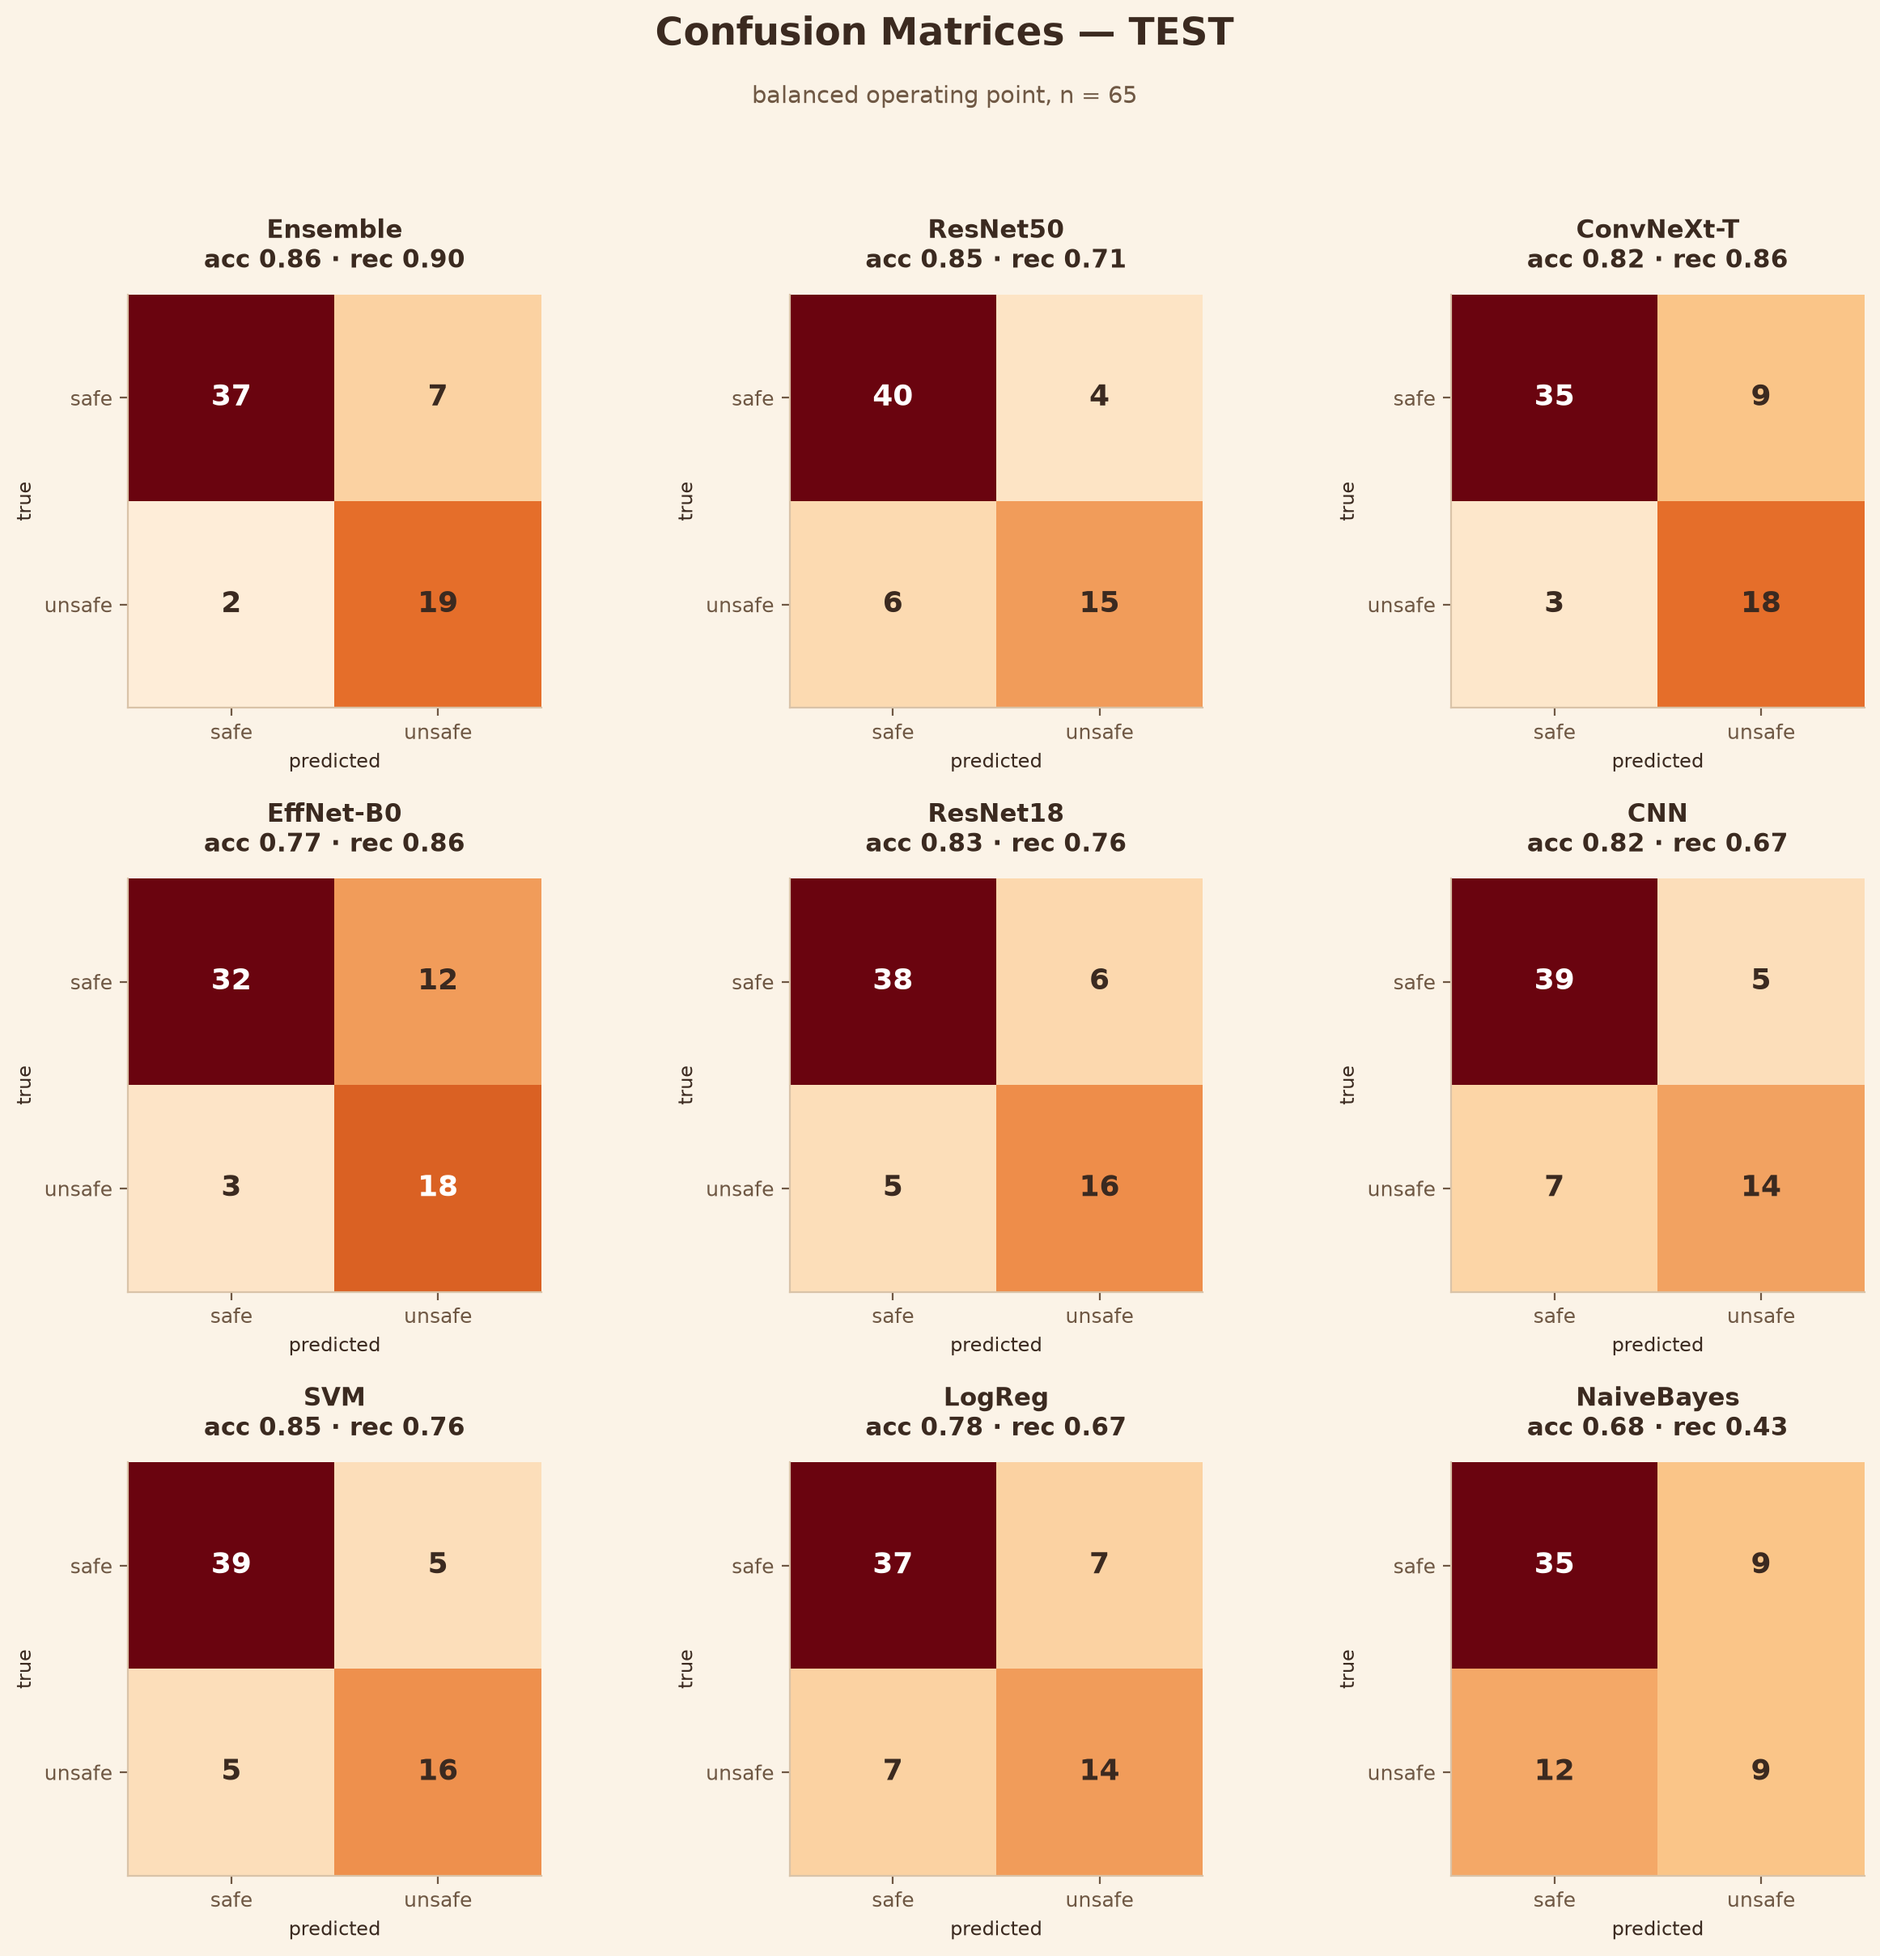
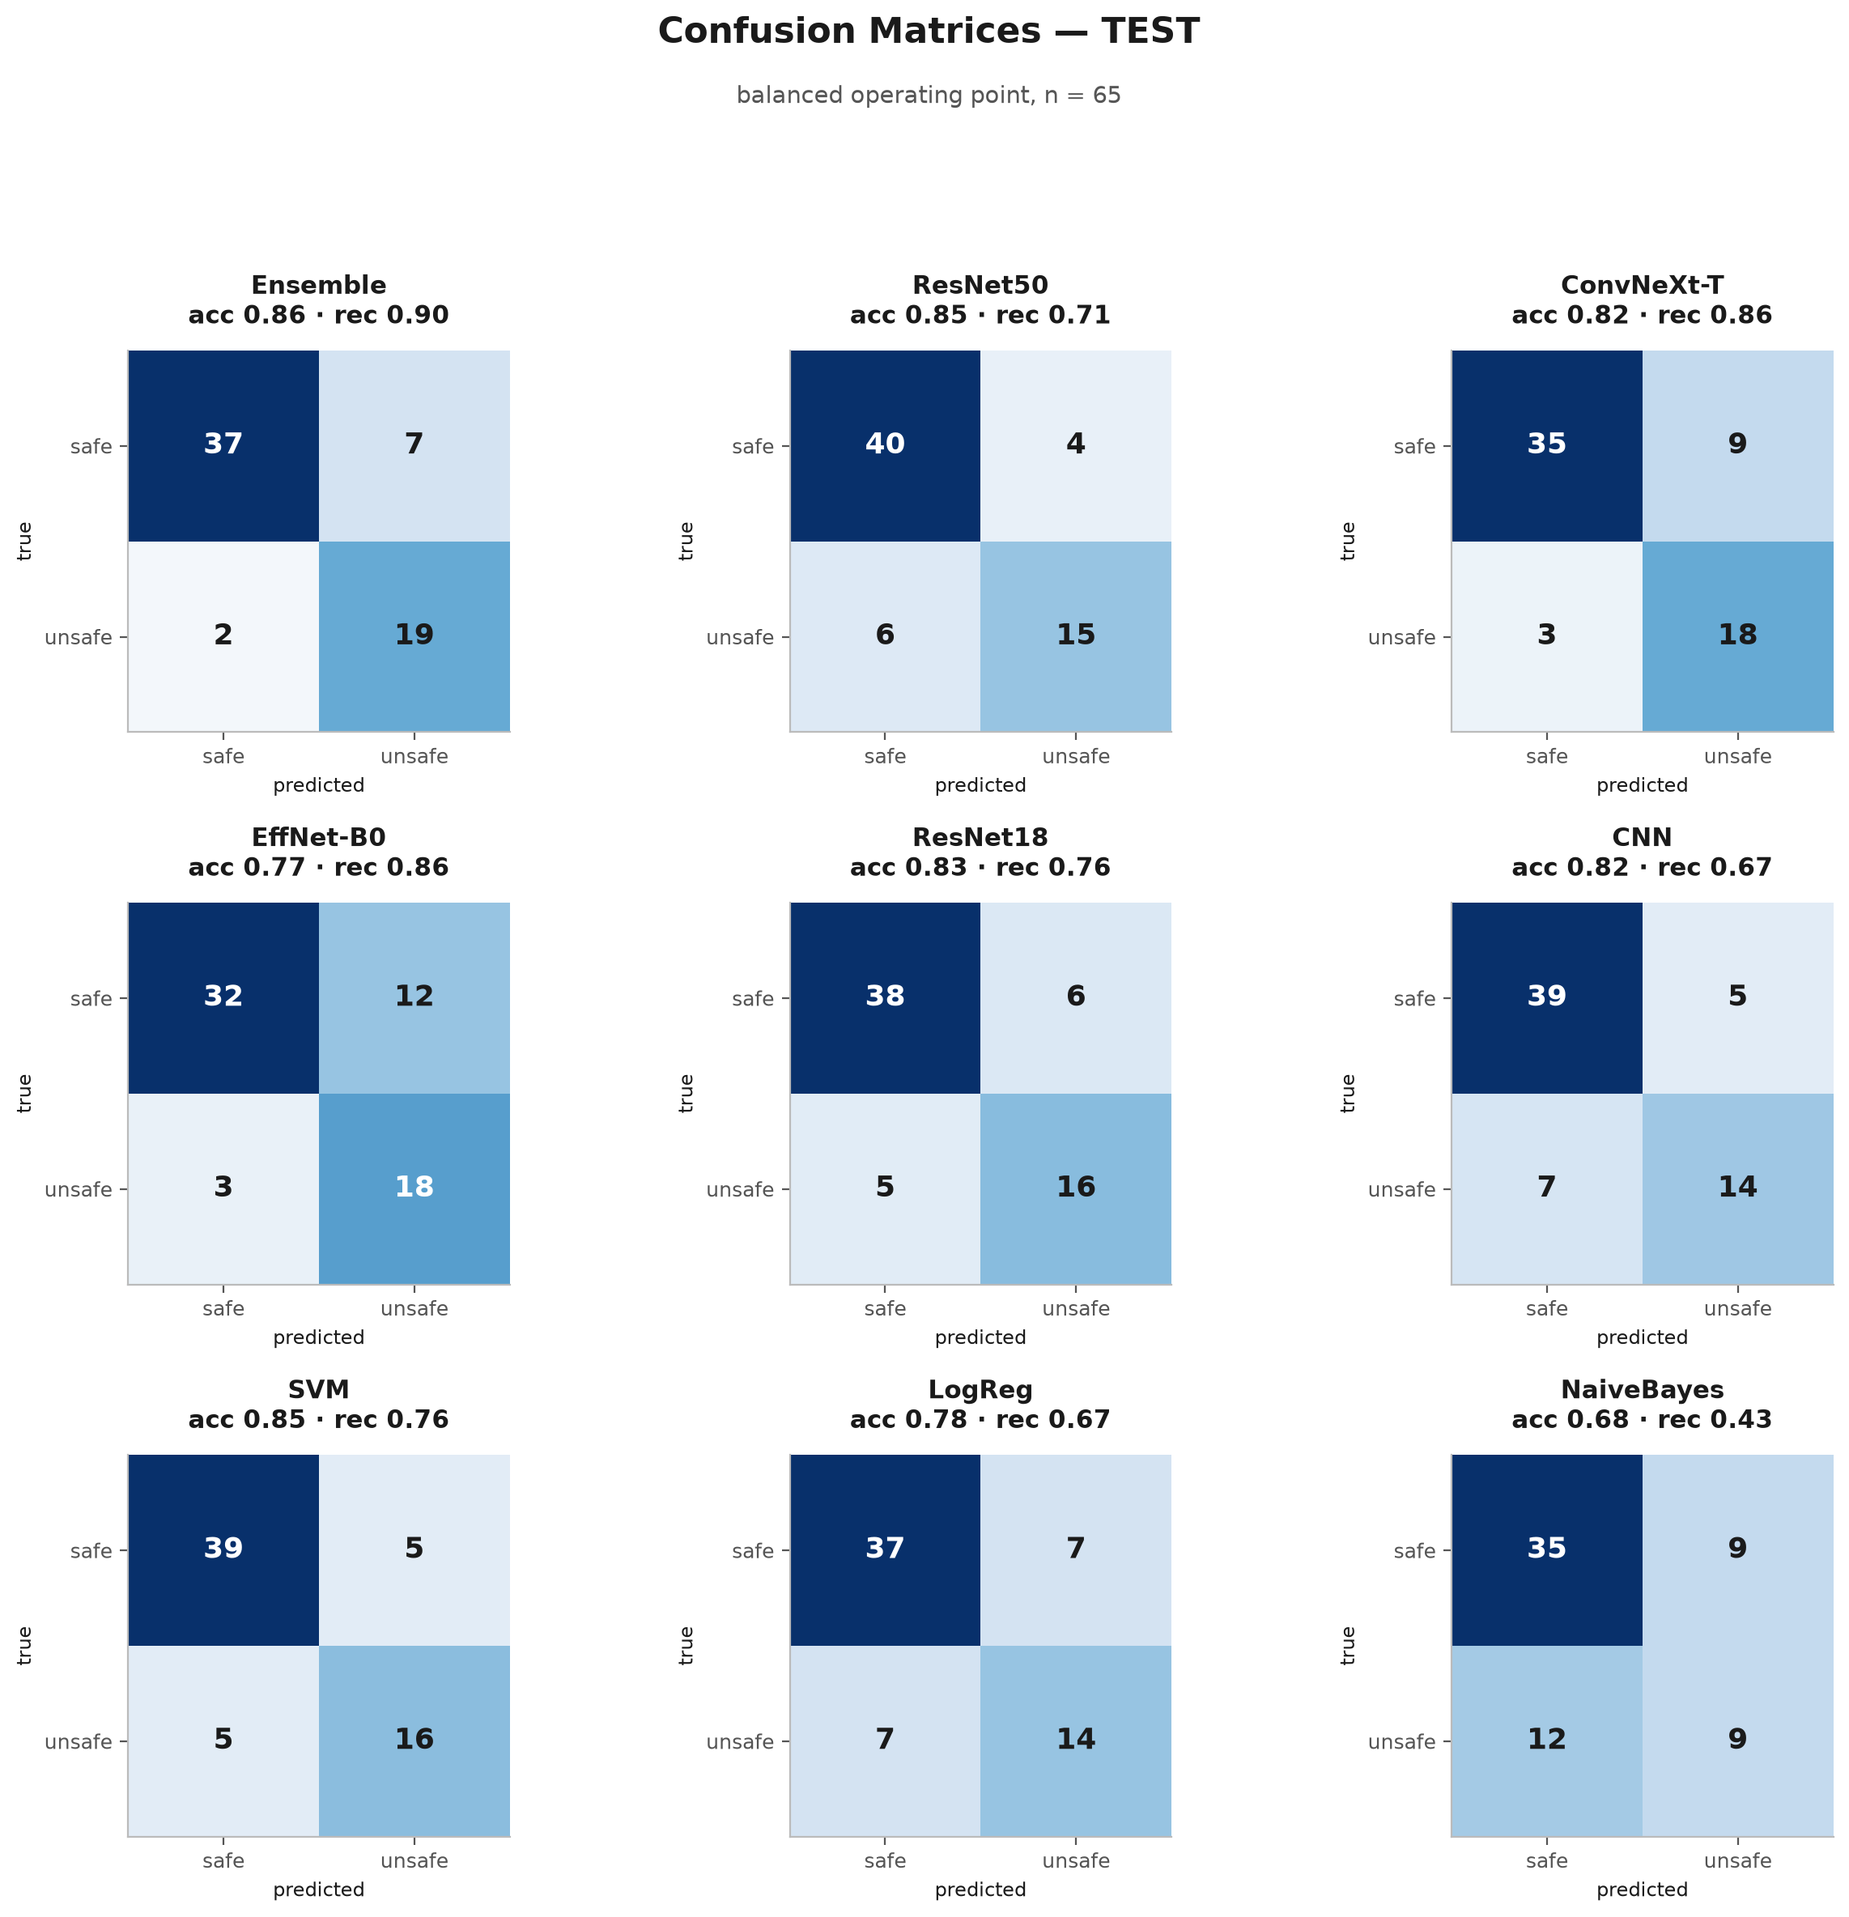
Redesign paper figures: white background, muted professional palette, fix overlaps
- White background (was warm cream); calm blue/red/green/purple muted palette
- Confusion + heatmap use a clean white->blue sequential colormap
- fig06 tradeoff: operating points moved to legend markers (no overlapping labels)
- More top spacing so titles/subtitles never overlap subplot titles

diff --git a/model/rt_paper_assets.py b/model/rt_paper_assets.py
@@ -37,15 +37,15 @@ MET = du.ROOT / "outputs_final" / "metrics_full.json"
 NPZ = du.ROOT / "outputs_final" / "probs_cache.npz"
 LABELS = REPO.parent / "data" / "label_map.json"
 
-# ───────────────────────── warm theme ─────────────────────────
-CREAM   = "#FBF3E7"   # warm paper background
-PANEL   = "#FFFDF9"
-INK     = "#3B2A20"   # dark warm brown (text)
-SUBINK  = "#6F5844"
-GRIDC   = "#E7D6C2"
-SAFE_C  = "#E9B949"   # warm gold
-UNSAFE_C= "#B3320B"   # warm rust
-ACCENT  = "#7B1E1E"   # deep maroon (ensemble / highlight)
+# ───────────────────────── clean paper theme (white bg, muted palette) ───────
+CREAM   = "#FFFFFF"   # white background
+PANEL   = "#FFFFFF"
+INK     = "#1A1A1A"   # near-black text
+SUBINK  = "#555555"
+GRIDC   = "#E8E8E8"
+SAFE_C  = "#4C72B0"   # calm blue
+UNSAFE_C= "#C44E52"   # muted red
+ACCENT  = "#2F4B7C"   # deep navy (ensemble / highlight)
 
 ORDER = ["Ensemble (best)", "ResNet50", "ConvNeXt-Tiny", "EfficientNet-B0",
          "ResNet18", "CNN", "SVM (RBF)", "Logistic Regression", "Naive Bayes"]
@@ -55,16 +55,17 @@ SHORT = {"Ensemble (best)": "Ensemble", "ResNet50": "ResNet50", "ConvNeXt-Tiny":
 KEY = {"Ensemble (best)": "ensemble", "ResNet50": "resnet50", "ConvNeXt-Tiny": "convnext",
        "EfficientNet-B0": "efficientnet", "ResNet18": "resnet18", "CNN": "cnn",
        "SVM (RBF)": "svm", "Logistic Regression": "logreg", "Naive Bayes": "nb"}
-COLOR = {"Ensemble (best)": ACCENT, "ResNet50": "#C1121F", "ConvNeXt-Tiny": "#E85D04",
-         "EfficientNet-B0": "#F48C06", "ResNet18": "#DC2F02", "CNN": "#FAA307",
-         "SVM (RBF)": "#BC6C25", "Logistic Regression": "#9C6644", "Naive Bayes": "#C9A227"}
-WARM = LinearSegmentedColormap.from_list("warm", ["#FFF7EC", "#FBC78A", "#E8722C", "#B3320B", "#6A040F"])
+COLOR = {"Ensemble (best)": "#2F4B7C", "ResNet50": "#4C72B0", "ConvNeXt-Tiny": "#55A868",
+         "EfficientNet-B0": "#8172B3", "ResNet18": "#DD8452", "CNN": "#64B5CD",
+         "SVM (RBF)": "#C44E52", "Logistic Regression": "#937860", "Naive Bayes": "#8C8C8C"}
+# clean white→blue sequential for confusion / heatmap (replaces the warm map)
+WARM = LinearSegmentedColormap.from_list("paperblue", ["#FFFFFF", "#C6DBEF", "#6BAED6", "#2171B5", "#08306B"])
 
 plt.rcParams.update({
     "figure.facecolor": CREAM, "savefig.facecolor": CREAM, "axes.facecolor": PANEL,
     "figure.dpi": 150, "savefig.dpi": 200, "savefig.bbox": "tight",
     "font.family": "DejaVu Sans", "font.size": 11.5,
-    "text.color": INK, "axes.labelcolor": INK, "axes.edgecolor": "#D9C3A8",
+    "text.color": INK, "axes.labelcolor": INK, "axes.edgecolor": "#BBBBBB",
     "xtick.color": SUBINK, "ytick.color": SUBINK,
     "axes.titlesize": 14, "axes.titleweight": "bold", "axes.titlepad": 12,
     "axes.grid": True, "grid.color": GRIDC, "grid.linewidth": 0.9, "grid.alpha": 0.9,
@@ -78,9 +79,9 @@ def despine(ax):
 
 
 def suptitle(fig, title, sub=None):
-    fig.suptitle(title, fontsize=17, fontweight="bold", color=INK, y=1.005)
+    fig.suptitle(title, fontsize=16, fontweight="bold", color=INK, y=0.985)
     if sub:
-        fig.text(0.5, 0.96, sub, ha="center", fontsize=10.5, color=SUBINK)
+        fig.text(0.5, 0.94, sub, ha="center", fontsize=10.5, color=SUBINK)
 
 
 # ───────────────────────── load data ─────────────────────────
@@ -107,8 +108,8 @@ def fig_dataset():
     veh = Counter((r["vehicle"], r["label"]) for r in recs)
     sc = D["split_counts"]
 
-    fig, ax = plt.subplots(2, 2, figsize=(13, 9.6))
-    fig.subplots_adjust(hspace=0.42, wspace=0.28)
+    fig, ax = plt.subplots(2, 2, figsize=(13, 9.8))
+    fig.subplots_adjust(hspace=0.42, wspace=0.28, top=0.87)
 
     # (a) donut safe/unsafe
     a = ax[0, 0]
@@ -153,7 +154,7 @@ def fig_dataset():
     d = ax[1, 1]
     labels = ["originals", "+ augmented"]
     vals = [D["train_originals"], D["train_total"]]
-    bars = d.bar(labels, vals, color=["#D9A157", ACCENT], width=0.55)
+    bars = d.bar(labels, vals, color=["#A6BDDB", ACCENT], width=0.55)
     for r, v in zip(bars, vals):
         d.text(r.get_x() + r.get_width()/2, v + 25, f"{v}", ha="center", fontweight="bold", color=INK)
     d.annotate(f"×{D['train_total']/max(D['train_originals'],1):.1f}",
@@ -200,7 +201,7 @@ def fig_roc():
         lw = 3.0 if m == "Ensemble (best)" else 1.7
         ax.plot(fpr, tpr, color=COLOR[m], lw=lw, label=f"{SHORT[m]}  ({auc:.3f})",
                 zorder=5 if m == "Ensemble (best)" else 3)
-    ax.plot([0, 1], [0, 1], "--", color="#B9A88F", lw=1)
+    ax.plot([0, 1], [0, 1], "--", color="#999999", lw=1)
     ax.set_xlabel("False positive rate"); ax.set_ylabel("True positive rate (unsafe)")
     despine(ax)
     ax.legend(title="model (AUC)", fontsize=9.5, loc="lower right")
@@ -218,7 +219,7 @@ def fig_pr():
         lw = 3.0 if m == "Ensemble (best)" else 1.7
         ax.plot(rc, pr, color=COLOR[m], lw=lw, label=f"{SHORT[m]}  ({ap:.3f})",
                 zorder=5 if m == "Ensemble (best)" else 3)
-    ax.axhline(base, ls="--", color="#B9A88F", lw=1, label=f"baseline ({base:.2f})")
+    ax.axhline(base, ls="--", color="#999999", lw=1, label=f"baseline ({base:.2f})")
     ax.set_xlabel("Recall (unsafe)"); ax.set_ylabel("Precision (unsafe)")
     despine(ax)
     ax.legend(title="model (AP)", fontsize=9.5, loc="lower left")
@@ -244,7 +245,7 @@ def fig_confusions():
         ax.set_xlabel("predicted", fontsize=8.5); ax.set_ylabel("true", fontsize=8.5)
         ax.grid(False)
     suptitle(fig, "Confusion Matrices — TEST", f"balanced operating point, n = {TEST_N}")
-    fig.tight_layout(rect=[0, 0, 1, 0.95]); fig.savefig(FIG / "fig05_confusion_matrices.png"); plt.close(fig)
+    fig.tight_layout(rect=[0, 0, 1, 0.90]); fig.savefig(FIG / "fig05_confusion_matrices.png"); plt.close(fig)
     print("  fig05_confusion_matrices")
 
 
@@ -255,20 +256,22 @@ def fig_tradeoff():
     acc = [( (p >= t).astype(int) == y).mean() for t in ts]
     rec = [ ((p >= t).astype(int)[y == 1] == 1).mean() for t in ts]
     thr = MODELS[m]["operating_thresholds"]
-    fig, ax = plt.subplots(figsize=(9.2, 6.6))
-    ax.plot(ts, acc, color="#BC6C25", lw=2.6, label="accuracy")
-    ax.plot(ts, rec, color=ACCENT, lw=2.6, label="unsafe recall")
-    marks = [("balanced", thr["threshold_balanced"], "#1B5E20"),
-             ("high_recall", thr["threshold_high_recall"], "#E85D04"),
-             ("max_recall", thr["threshold_max_recall"], "#7B1E1E")]
-    for name, t, c in marks:
-        ax.axvline(t, color=c, ls=":", lw=1.6)
-        ax.scatter([t], [((p >= t).astype(int)[y == 1] == 1).mean()], color=c, s=90, zorder=6,
-                   edgecolor="white", linewidth=1.3)
-        ax.text(t, 1.02, name, rotation=90, va="bottom", ha="center", fontsize=8.7, color=c, fontweight="bold")
+    fig, ax = plt.subplots(figsize=(9.2, 6.2))
+    ax.plot(ts, acc, color="#4C72B0", lw=2.4, label="accuracy")
+    ax.plot(ts, rec, color="#C44E52", lw=2.4, label="unsafe recall")
+    # mark the 3 operating points as legend markers (no overlapping vertical text)
+    marks = [("balanced", thr["threshold_balanced"], "#2F4B7C", "o"),
+             ("high-recall (deployed)", thr["threshold_high_recall"], "#55A868", "s"),
+             ("max-recall (zero-miss)", thr["threshold_max_recall"], "#8172B3", "^")]
+    for name, t, c, mk in marks:
+        ax.axvline(t, color=c, ls=":", lw=1.2, alpha=0.7)
+        ry = ((p >= t).astype(int)[y == 1] == 1).mean()
+        ax.scatter([t], [ry], color=c, s=120, marker=mk, zorder=6, edgecolor="white",
+                   linewidth=1.2, label=f"{name}  (t = {t:.2f})")
     ax.set_xlabel("decision threshold  P(unsafe)"); ax.set_ylabel("score")
-    ax.set_ylim(0, 1.10); despine(ax)
-    ax.legend(loc="lower center")
+    ax.set_xlim(0, 1); ax.set_ylim(0, 1.05); despine(ax)
+    ax.legend(loc="lower center", fontsize=9.5, frameon=True, framealpha=0.95,
+              edgecolor="#DDDDDD", ncol=1)
     suptitle(fig, "Operating-Point Trade-off", f"held-out test, n = {TEST_N}  ·  three deployable modes")
     fig.tight_layout(rect=[0, 0, 1, 0.90]); fig.savefig(FIG / "fig06_tradeoff.png"); plt.close(fig)
     print("  fig06_tradeoff")
@@ -280,8 +283,8 @@ def fig_errors():
     err = {sp: [1 - bal(m, sp)["accuracy"] for m in names] for sp in ("train", "val", "test")}
     x = np.arange(len(names)); w = 0.26
     fig, ax = plt.subplots(figsize=(15, 7))
-    ax.bar(x - w, err["train"], w, label="train error", color="#E9C46A")
-    ax.bar(x,     err["val"],   w, label="val error",   color="#E07A3E")
+    ax.bar(x - w, err["train"], w, label="train error", color="#A6BDDB")
+    ax.bar(x,     err["val"],   w, label="val error",   color="#6BAED6")
     ax.bar(x + w, err["test"],  w, label="test error",  color=ACCENT)
     for i in range(len(names)):
         for off, sp in [(-w, "train"), (0, "val"), (w, "test")]:
@@ -303,8 +306,8 @@ def fig_gap():
     y = np.arange(len(names))
     fig, ax = plt.subplots(figsize=(10.5, 7))
     for i in range(len(names)):
-        ax.plot([te[i], tr[i]], [i, i], color="#D9C3A8", lw=3, zorder=1)
-    ax.scatter(tr, y, s=90, color="#E9C46A", label="train acc", zorder=3, edgecolor=INK, linewidth=0.6)
+        ax.plot([te[i], tr[i]], [i, i], color="#CCCCCC", lw=3, zorder=1)
+    ax.scatter(tr, y, s=90, color="#A6BDDB", label="train acc", zorder=3, edgecolor=INK, linewidth=0.6)
     ax.scatter(te, y, s=110, color=ACCENT, label="test acc", zorder=3, edgecolor="white", linewidth=0.8)
     for i in range(len(names)):
         ax.text((tr[i]+te[i])/2, i + 0.18, f"Δ{(tr[i]-te[i])*100:.0f}", ha="center", fontsize=8.4,
@@ -355,7 +358,7 @@ def fig_table():
     for i, m in enumerate(ORDER, start=1):
         tbl[i, 0].set_facecolor(COLOR[m]); tbl[i, 0].set_text_props(color="white", fontweight="bold")
         for j in range(1, len(cols)):
-            tbl[i, j].set_facecolor("#FFFDF9" if i % 2 else "#F7ECDD")
+            tbl[i, j].set_facecolor("#FFFFFF" if i % 2 else "#F0F3F8")
     ax.set_title("Model comparison — held-out test, balanced operating point",
                  fontweight="bold", fontsize=13, pad=16, color=INK)
     fig.savefig(FIG / "fig10_results_table.png", dpi=200); plt.close(fig)
@@ -368,7 +371,7 @@ def fig_modes():
     keys = [("accuracy", "Accuracy"), ("recall_unsafe", "Unsafe recall"),
             ("precision_unsafe", "Precision"), ("specificity", "Specificity")]
     x = np.arange(len(modes)); w = 0.2
-    cols = ["#BC6C25", ACCENT, "#E85D04", "#C9A227"]
+    cols = ["#4C72B0", "#55A868", "#DD8452", "#8172B3"]
     fig, ax = plt.subplots(figsize=(10, 6.4))
     for i, (k, lab) in enumerate(keys):
         vals = [MODELS[m]["test"][mode].get(k) or 0 for mode in modes]
